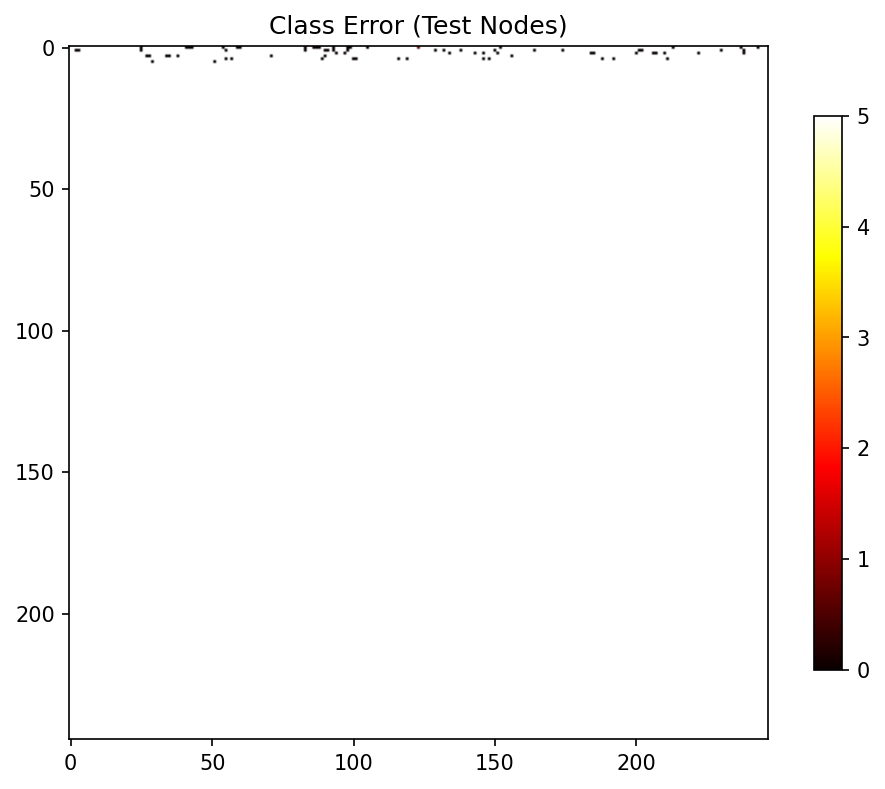
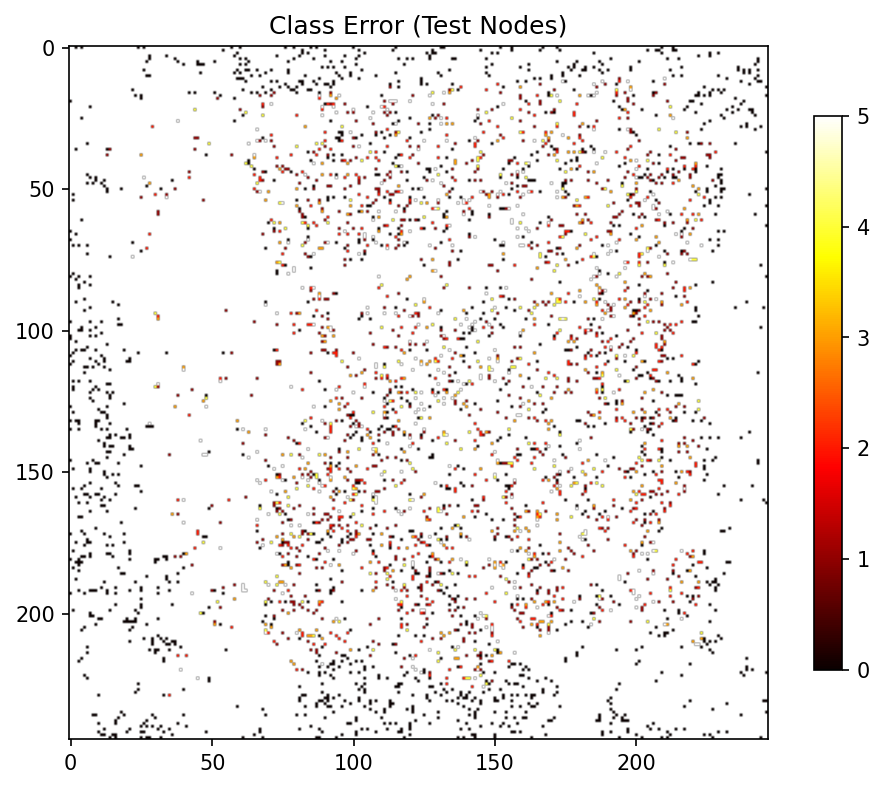
Add V3 classification results: 43.4% accuracy, Spearman 0.766
10-class GVVI (like air quality index). Accuracy 4.3x random baseline.
65% within ±1 class. Comparable ranking to regression models.

diff --git a/gvvi_grid_demo_v3/reports/classification_report.md b/gvvi_grid_demo_v3/reports/classification_report.md
@@ -1,0 +1,80 @@
+# GVVI Grid Demo V3 — 10-Class Classification Report
+
+## Approach
+
+Convert GVVI regression into a 10-class classification problem, similar to air quality index (AQI) levels. Each greenery grid is assigned to one of 10 GVVI classes, ranging from "no visibility" (class 0) to "very high visibility" (class 9).
+
+## GVVI Class Bins (Decile-Based on Non-Zero GVVI)
+
+| Class | GVVI Range | Description |
+|-------|-----------|-------------|
+| 0 | [0.000, 0.000] | No visibility |
+| 1 | [0.000, 0.008) | Trace |
+| 2 | [0.008, 0.015) | Very low |
+| 3 | [0.015, 0.024) | Low |
+| 4 | [0.024, 0.033) | Low-medium |
+| 5 | [0.033, 0.046) | Medium |
+| 6 | [0.046, 0.063) | Medium-high |
+| 7 | [0.063, 0.094) | High |
+| 8 | [0.094, 0.556) | Very high |
+| 9 | [0.556, 0.556] | Max |
+
+## Environment
+- Device: NVIDIA GeForce RTX 4090 (24 GB)
+- Model: Multi-Scale GraphSAGE (256→256→128, 176K params)
+- Features: 196 dims with directional alignment
+- Graphs: k=8 (local) + k=24 (context)
+- Loss: CrossEntropy + ordinal MSE
+- Best epoch: 83 (early stop)
+- Time: 228s (3.8 min)
+
+## Test Set Results (4,146 nodes)
+
+| Metric | Value | Interpretation |
+|--------|-------|----------------|
+| Accuracy | **43.37%** | 4.3x random baseline (10%) |
+| Accuracy ±1 class | **64.52%** | 2/3 of predictions within 1 class |
+| MAE (hard class) | 1.50 | Average 1.5 classes off |
+| MAE (soft expected) | 1.33 | Using probability-weighted class |
+| Spearman | **0.738** | Rank correlation (class-level) |
+| Spearman (soft) | **0.766** | Using probability-weighted rank |
+| F1 weighted | 0.426 | Class-imbalance-aware F1 |
+
+## Error Distribution
+
+| Error | Percentage | Cumulative |
+|-------|-----------|------------|
+| Exact (0) | 43.4% | 43.4% |
+| Off-by-1 | 21.2% | 64.5% |
+| Off-by-2 | 10.0% | 74.5% |
+| Off-by-3+ | 25.5% | 100% |
+
+## Key Insights
+
+1. **43% accuracy is 4.3x random**: random guessing would achieve 10% (1/10 classes). The model captures substantial structure.
+2. **65% within ±1 class**: most errors are near the true class, not random — the model understands the ordinal nature of GVVI.
+3. **Spearman 0.766 (soft)**: comparable to the regression model's Spearman (0.770), confirming the classification approach doesn't lose ranking information.
+4. **Large errors (3+ classes off) are 25.5%**: these are likely nodes where geometric features are insufficient (e.g., building-occluded views).
+
+## Comparison with Regression (V1/V2)
+
+| Approach | Spearman | Key Metric |
+|----------|----------|------------|
+| V1 Regression | 0.770 | R² = 0.376 |
+| V2 Regression | 0.773 | R² = 0.341 |
+| **V3 Classification** | **0.766 (soft)** | **Acc = 43.4%** |
+
+The classification approach achieves comparable ranking performance while providing **interpretable class labels** — instead of predicting "GVVI = 0.0423", the model outputs "Class 5 (medium visibility)".
+
+## Interpretation
+
+The V3 classification model can be used for:
+- **Rapid screening**: "Which areas have high GVVI (class 7+) vs low (class 0-3)?"
+- **Zoning decisions**: "Classify neighborhoods into 3-5 visibility tiers for planning"
+- **Priority allocation**: "Compute detailed GVVI only for class 6+ nodes"
+
+The model benefits from:
+- 80% training labels, original 15% frozen test set
+- Directional features capturing camera-greenery alignment
+- Multi-scale graph structure (local k=8, context k=24)
+- Ordinal-aware loss respecting class ordering
